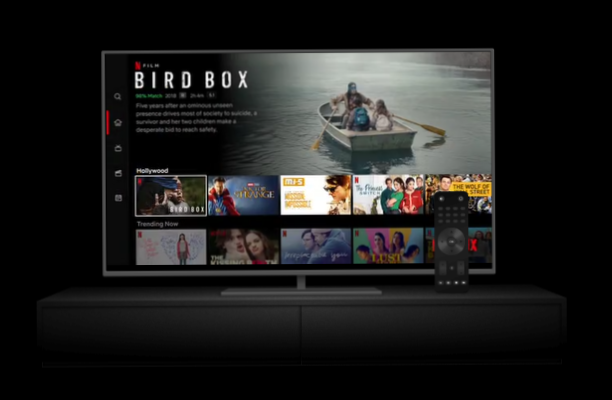
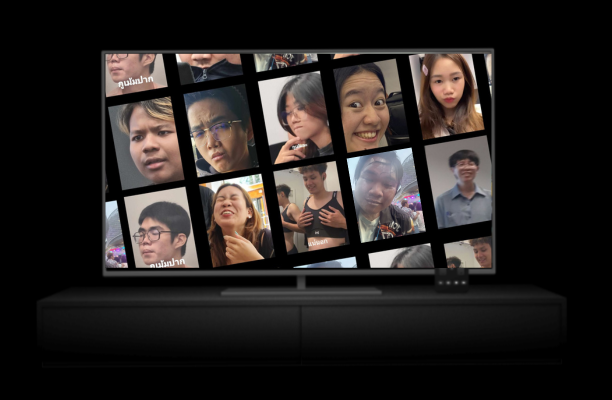
welcome page finish

Changed region(s): [[0.1552, 0.12, 0.8072, 0.69]]

diff --git a/src/Pages/Welcome.jsx b/src/Pages/Welcome.jsx
@@ -4,9 +4,6 @@ import { useEffect } from "react";
 import Footer from "../componets/Footer/Footer";
 
 import WelcomePageImage1 from "../images/WelcomePageImage1.png";
-import WelcomePageImage2 from "../images/WelcomePageImage2.png";
-import WelcomePageImage3 from "../images/WelcomePageImage3.png";
-import WelcomePageImage4 from "../images/WelcomePageImage4.png";
 import WelcomePageBanner from "../images/WelcomePageBanner.jpg";
 
 import { Fade } from "react-reveal";
@@ -30,14 +27,13 @@ function Welcome() {
           <div className="w-10/12 text-center sm:w-11/12 md:w-40rem">
             <Fade duration={2000}>
               <h1 className="mb-3 text-3xl font-semibold text-center text-white sm:text-4xl md:text-6xl">
-                Unlimited movies, TV shows and more.
+                SAND PROJECT
               </h1>
               <h1 className="mb-4 text-xl text-center text-stone-400 font-light sm:text-2xl">
-                Watch anywahere.Cancel anytime
+                SANAM AROM NONG DEARN
               </h1>
               <h1 className="mb-2 text-center text-stone-400 font-light sm:text-xl sm:mb-8">
-                Ready to watch? Enter your email to create or restart your
-                membership.
+                A website for movie lovers and a place for SANAM AROM NONG DEARN.
               </h1>
               <div>
                 <input
@@ -45,9 +41,9 @@ function Welcome() {
                   className="w-full p-2 py-3 rounded-sm sm:py-4 md:py-5 md:w-3/4"
                 />
                 <Link to={"/signup"}>
-                  <button 
-                  style={{ backgroundColor: '#2A6354' }} 
-                  className="px-4 py-2 mt-3 font-medium text-white rounded-sm sm:py-4 md:mt-0 md:pb-5 md:text-xl md:w-1/4">
+                  <button
+                    style={{ backgroundColor: '#2A6354' }}
+                    className="px-4 py-2 mt-3 font-medium text-white rounded-sm sm:py-4 md:mt-0 md:pb-5 md:text-xl md:w-1/4">
                     Get Started
                   </button>
                 </Link>
@@ -85,74 +81,30 @@ function Welcome() {
         </Fade>
       </section>
 
-      {/* Section 3 */}
-      <section className="bg-black">
-        <Fade>
-          <div className="flex justify-center">
-            <div className="flex flex-col-reverse lg:flex-row lg:items-center lg:w-9/12">
-              <div className="flex justify-center">
-                <img className="" src={WelcomePageImage2} />
-              </div>
-              <div>
-                <h1 className="mx-4 mt-4 mb-6 text-4xl font-semibold text-center text-white lg:mt-0 lg:text-left lg:ml-8 lg:text-5xl xl:text-6xl">
-                  Download your shows to watch offline.
-                </h1>
-                <h1 className="m-4 text-center text-stone-400 font-light lg:text-left lg:ml-8 lg:text-2xl lg:w-9/12">
-                  Save your favourites easily and always have something to
-                  watch.
-                </h1>
-              </div>
-            </div>
-          </div>
-        </Fade>
-      </section>
 
-      {/* Section 4 */}
-      <section className="bg-black border-y-8 border-y-zinc-800">
-        <Fade>
-          <div className="flex justify-center md:py-8">
-            <div className="lg:flex lg:items-center lg:w-9/12">
-              <div>
-                <h1 className="mt-4 mb-6 text-4xl font-semibold text-center text-white lg:mt-0 lg:text-left lg:ml-8 lg:text-5xl xl:text-6xl">
-                  Watch everywhere.
-                </h1>
-                <h1 className="m-4 text-center text-stone-400 font-light lg:text-left lg:ml-8 lg:text-2xl lg:w-9/12">
-                  Stream unlimited movies and TV shows on your phone, tablet,
-                  laptop, and TV.
-                </h1>
-              </div>
-              <div className="flex justify-center">
-                <img className="" src={WelcomePageImage3} />
-              </div>
-            </div>
-          </div>
-        </Fade>
-      </section>
-
-      {/* Section 5 */}
-      <section className="bg-black">
-        <Fade>
-          <div className="flex justify-center">
-            <div className="flex flex-col-reverse lg:flex-row lg:items-center lg:w-9/12">
-              <div className="flex justify-center">
-                <img className="" src={WelcomePageImage4} />
-              </div>
-              <div>
-                <h1 className="mt-4 mb-6 text-4xl font-semibold text-center text-white lg:mt-0 lg:text-left lg:ml-8 lg:text-5xl xl:text-6xl">
-                  Create profiles for children.
-                </h1>
-                <h1 className="m-4 text-center text-stone-400 font-light lg:text-left lg:ml-8 lg:text-2xl lg:w-9/12">
-                  Send children on adventures with their favourite characters in
-                  a space made just for them—free with your membership.
-                </h1>
-              </div>
-            </div>
-          </div>
-        </Fade>
-      </section>
 
       {/* Section 6 */}
-      <section></section>
+      <section>
+        <div
+          style={{
+            background: `linear-gradient(0deg, hsl(0deg 0% 0% / 73%) 0%, hsl(0deg 0% 0% / 73%) 35%), url(${WelcomePageBanner})`,
+            backgroundSize: 'cover',
+            backgroundPosition: 'center',
+            backgroundRepeat: 'no-repeat',
+          }}
+          className="h-[32rem] w-full sm:h-[65vh] xl:h-[80vh] bg-slate-800 relative flex items-center justify-center"
+        >
+          <ul className="mb-4 text-xl text-center text-stone-400 font-light sm:text-2xl">
+            <li>662110182 นางสาวกัญชรส มีรัตน์</li>
+            <li>662110198 นางสาวเพียงเพียร นิยะตะ</li>
+            <li>662110199 นายภัทรดนัย ยศบุญ</li>
+            <li>662110205 นางสาวสุชญา อนุชปรีดา</li>
+          </ul>
+
+        </div>
+
+
+      </section>
 
       {/* Footer */}
       <Footer></Footer>

diff --git a/src/componets/Header/NavbarWithoutUser.jsx b/src/componets/Header/NavbarWithoutUser.jsx
@@ -27,7 +27,7 @@ function NavbarWithoutUser() {
         <div className="w-9/12 md:w-11/12">
           <img
             className="h-8 sm:h-10 sm:w-18 ml-8 cursor-pointer"
-            src="src/images/Sand-logo.png"
+            src="https://i.ibb.co/n8gCxyK/cdbd6b3d5ce53506505c02d7173ccc14-1.png"
             alt="SAND"
           />
         </div>

diff --git a/src/Pages/Profile.jsx b/src/Pages/Profile.jsx
@@ -335,12 +335,3 @@ function Profile() {
 
 export default Profile;
 
-/* https://ibb.co/xh7KPwg
-https://i.ibb.co/4WVw9CS/Esan.jpg
-https://ibb.co/fFw0LyT
-https://i.ibb.co/tKrCFv1/Monthone.jpg
-https://ibb.co/wLkTtHr
-https://i.ibb.co/cvBPq5X/Noey.jpg
-https://ibb.co/gw2fhdk 
-https://i.ibb.co/ZKjF7Sq/Paeng.jpg 
-*/
